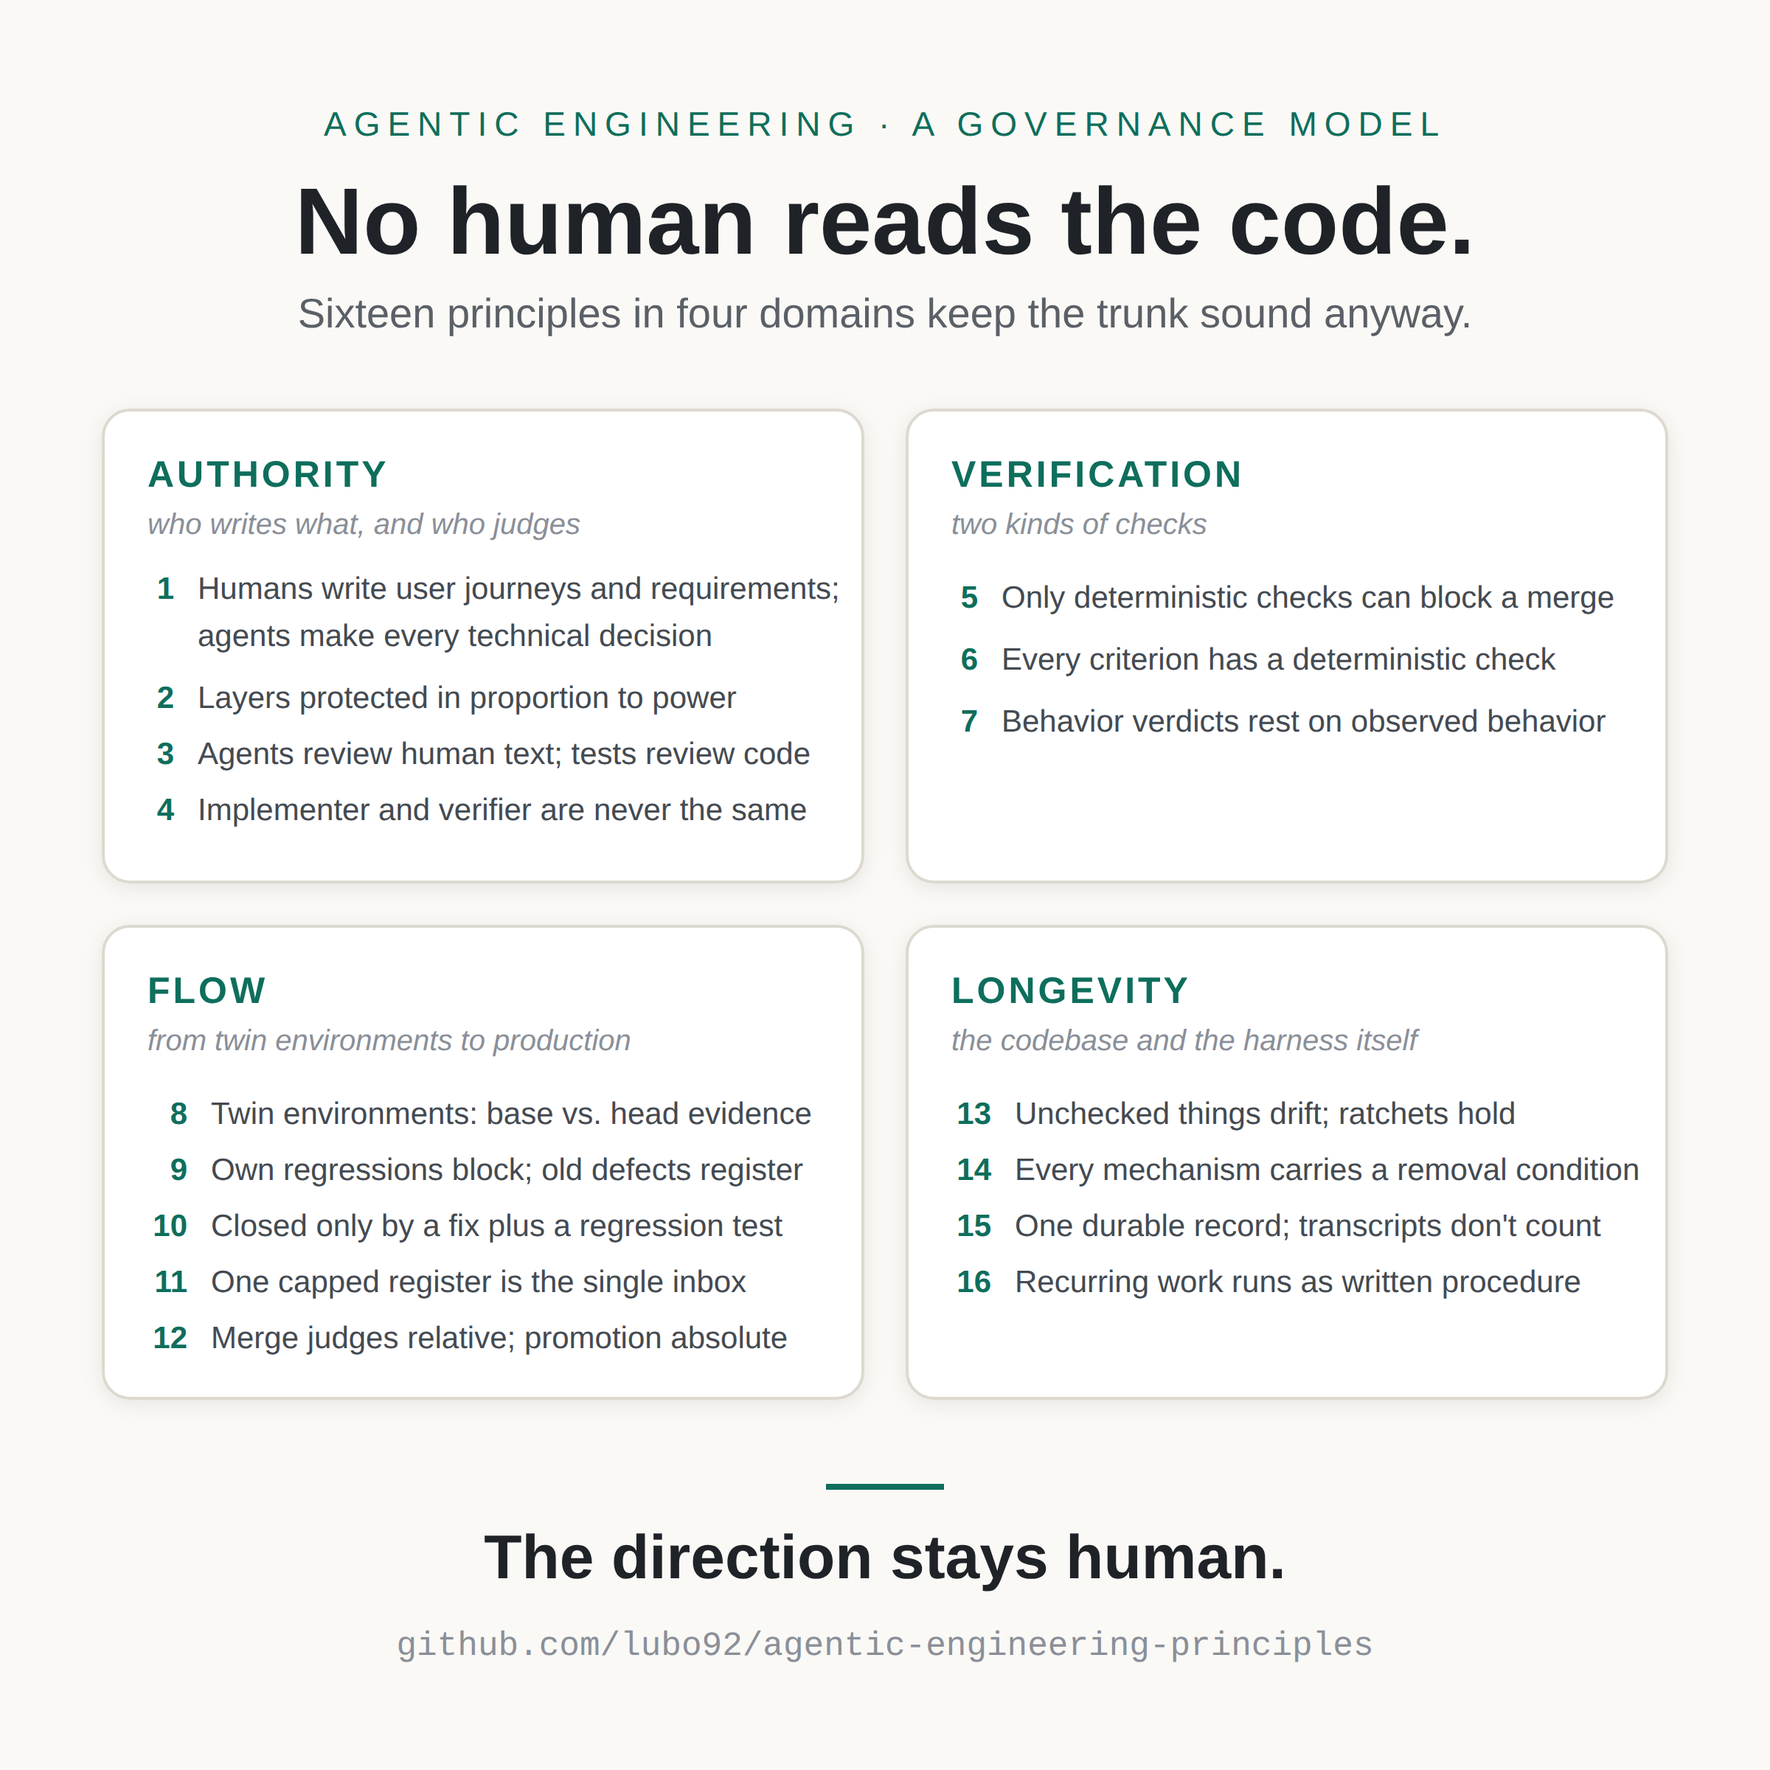
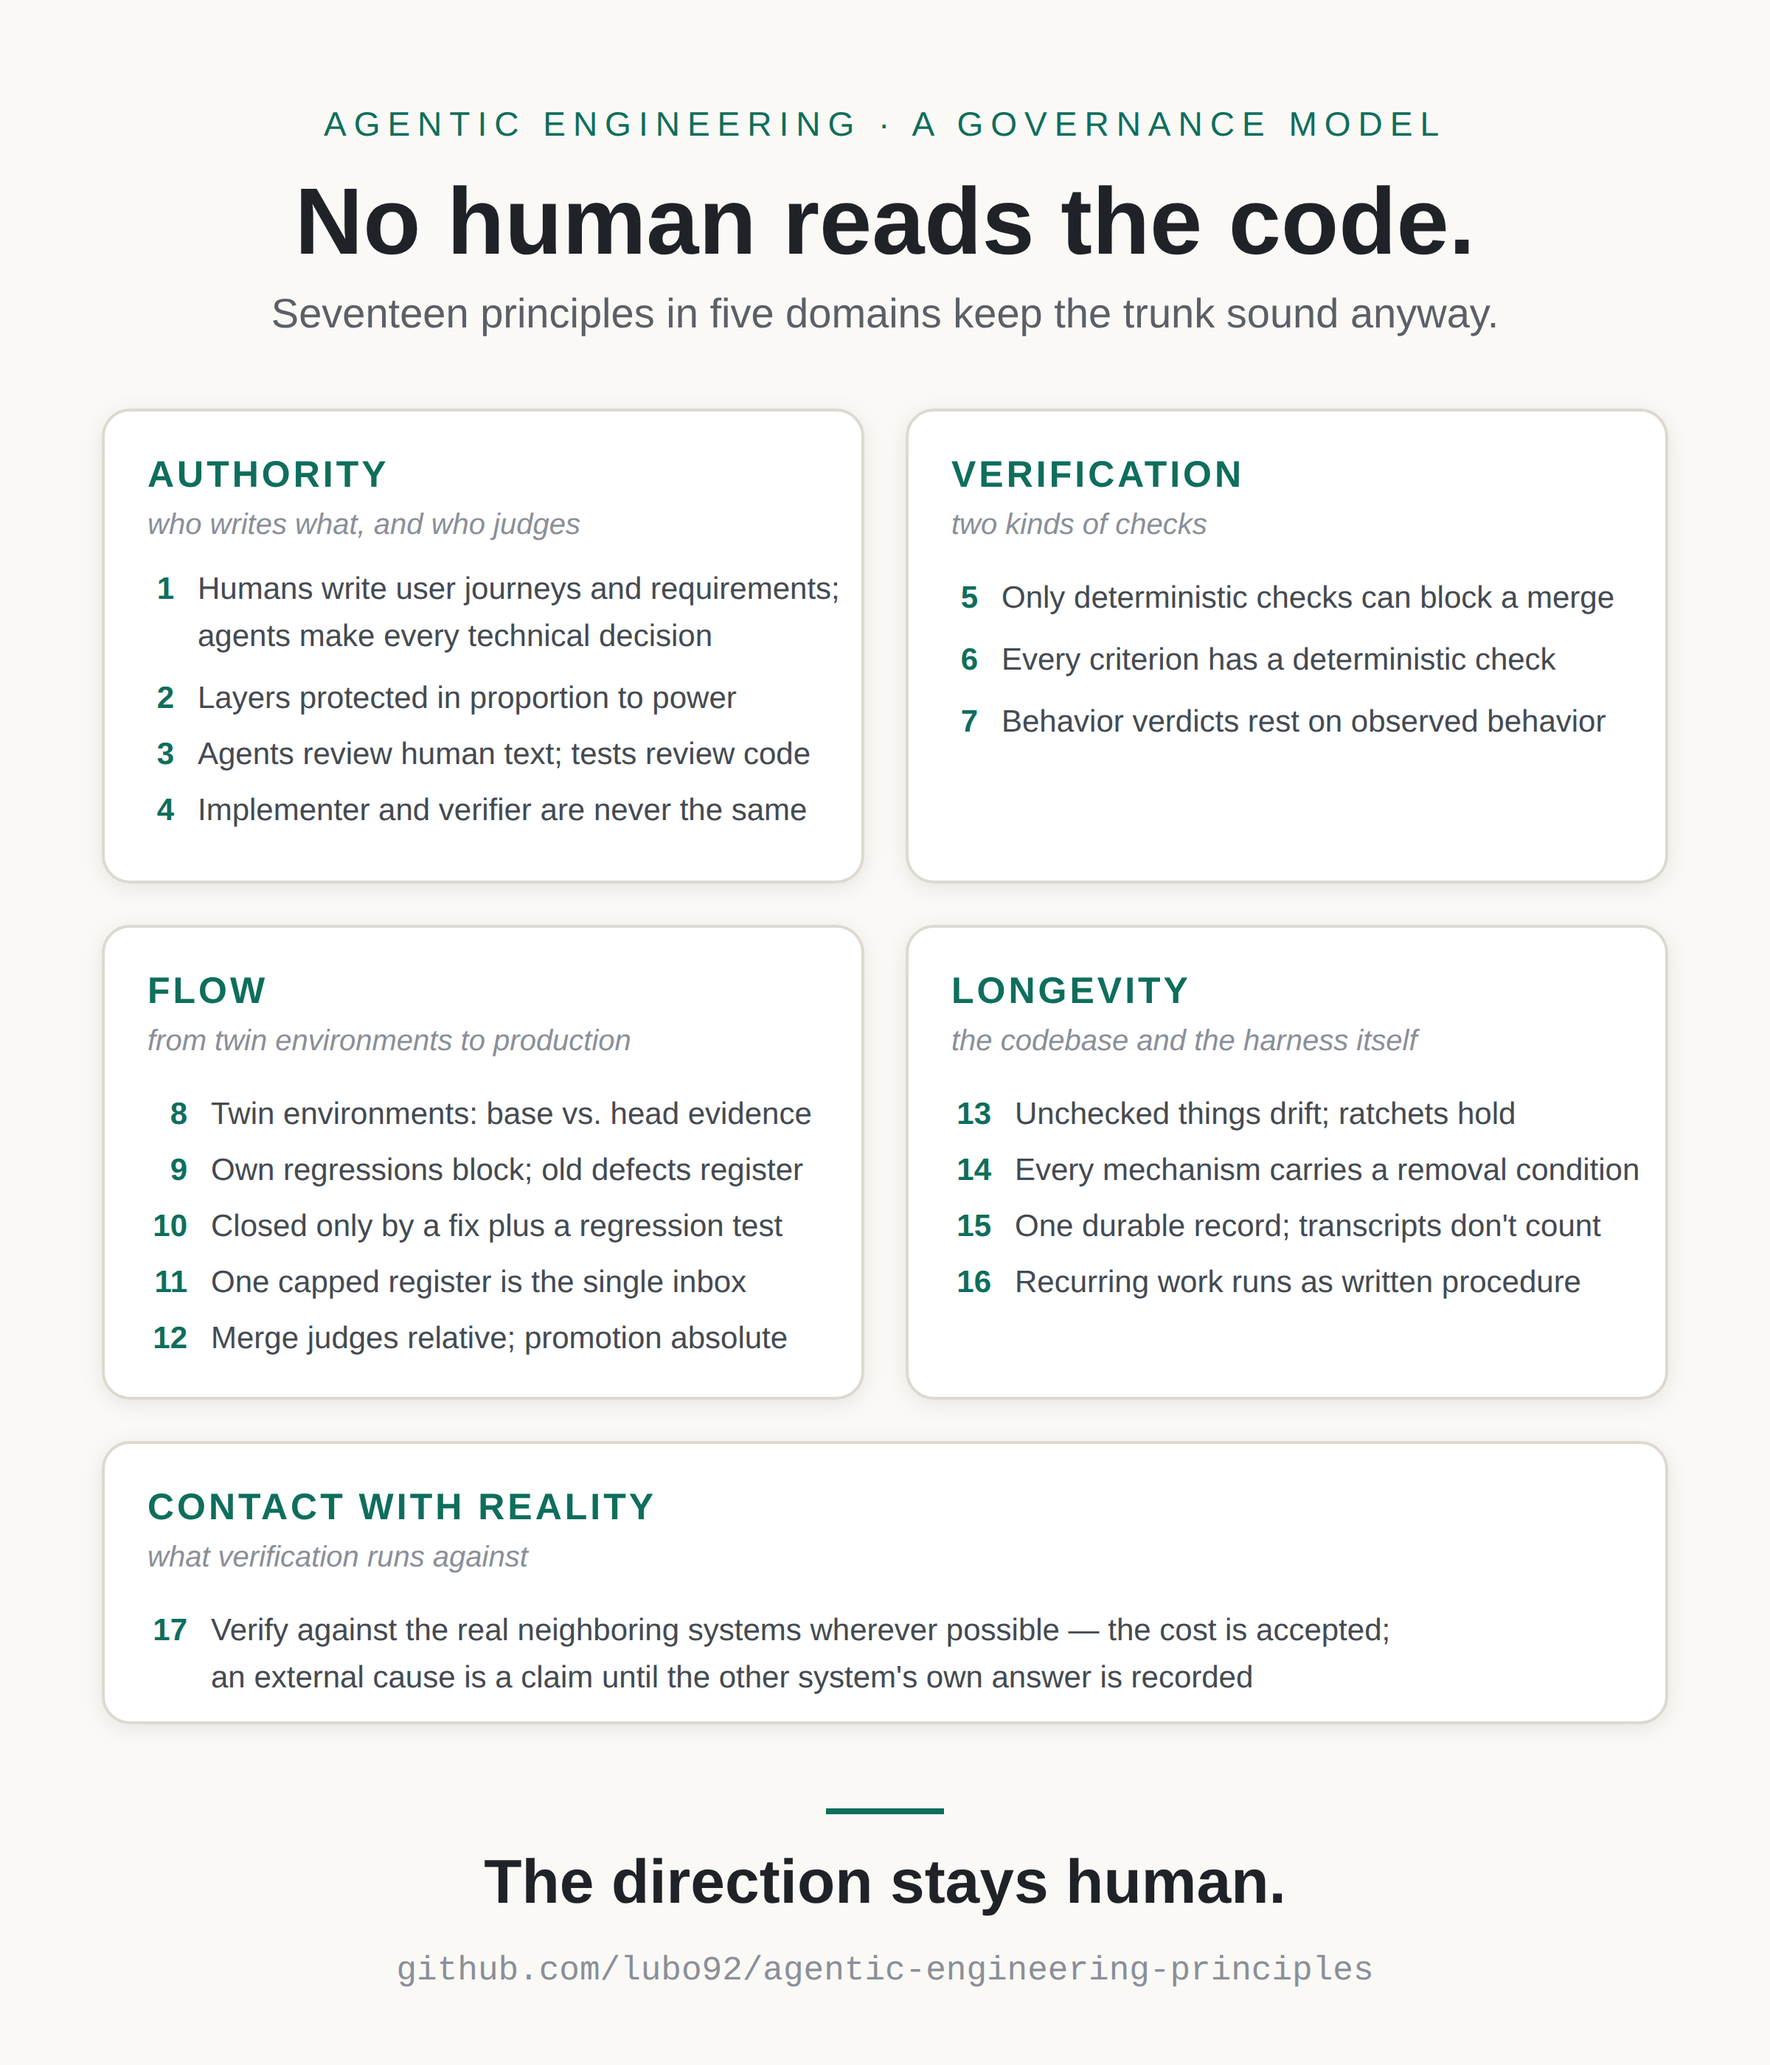
Add principle 17 (Contact with reality); release 1.1.0
Verification runs against the real neighboring systems wherever that is
possible at all, and its cost is accepted: test doubles can only confirm
their author's beliefs, and in an agentic organization an environment
that cannot reach the real system manufactures excuses no one can
refute. An external cause is a claim until the other system's own answer
is recorded verbatim; moving a check from a real dependency to a
substitute weakens the oracle and takes the same guarded act as removing
a test.

Placed as its own group at the end of Part I so principles 1-16 keep
their numbers. Title, abstract, citation, changelog and the overview
graphic follow the new count.

Claude-Session: https://claude.ai/code/session_01Akwo4bpbpBTaTuw3WfUkqX

diff --git a/sixteen-principles.md b/sixteen-principles.md
@@ -1,14 +1,14 @@
-# Sixteen principles for software organizations where no human reads the code
+# Seventeen principles for software organizations where no human reads the code
 
 ## A governance model for agentic engineering
 
-*Wolfgang Lubowski · TechVera ([techvera.ai](https://techvera.ai)) · Version 1.0, August 2026*
+*Wolfgang Lubowski · TechVera ([techvera.ai](https://techvera.ai)) · Version 1.1, August 2026*
 
 Software engineering is entering a new operating model: agents increasingly write the implementation, while humans define goals and constraints. Most discussions focus on better models, better prompts, better tools, or better harnesses. Much less attention has been paid to a more fundamental question:
 
 **What are the operating principles of a software organization in which humans no longer review code?**
 
-This document answers that question with **sixteen concrete principles**. They define who owns decisions, which artifacts are normative, how authority is distributed, what constitutes evidence, how changes are verified, and how an agentic software organization remains governable as it scales.
+This document answers that question with **seventeen concrete principles**. They define who owns decisions, which artifacts are normative, how authority is distributed, what constitutes evidence, how changes are verified, and how an agentic software organization remains governable as it scales.
 
 The principles are not design aspirations or best practices. Together they form a coherent operating model that can be implemented directly: each principle introduces a concrete rule, and Part II translates the principles into repositories, permissions, processes, gates, and workflows.
 
@@ -32,7 +32,7 @@ from the start.
 
 ---
 
-## Part I — The sixteen principles
+## Part I — The seventeen principles
 
 ### Authority — who writes what, and who judges
 
@@ -431,6 +431,44 @@ governs, covered by tests, and changed by a recorded change — never edited
 from memory. None of this is peculiar to agents. A human team that decides
 every step on the fly is unreliable for the same reason, and answers with
 processes that are written down and known to everyone.
+
+### Contact with reality — what verification runs against
+
+One principle stands apart: not what is checked or who judges, but what
+the checks are pointed at.
+
+#### 17. Maximize the checks that touch reality: end-to-end and integration verification runs against the real neighboring systems wherever that is possible at all, and its cost is accepted.
+
+A test double encodes what its author believed the other system does, and
+can only ever confirm that belief — including where the real system
+changed last month. The defects that reach customers live in that gap: a
+request field the provider began refusing, a mail path that silently
+stopped delivering, a response shape that moved. Against a stub, all three
+pass forever.
+
+In an agentic organization a second reason weighs heavier. An environment
+that cannot reach the real system manufactures excuses: where a red is
+explained by an unreachable dependency the environment could never have
+reached anyway, the explanation cannot be checked — and an agent under
+pressure to finish prefers the explanation that ends the work. Faked
+surroundings do not merely miss defects; they generate false attributions
+the harness cannot refute. Hence a narrow rule: an external cause is a
+claim until the other system's own answer is recorded verbatim; until then
+the finding stays open and belongs to the system that raised it.
+
+The cost — credentials in every environment, per-call charges, longer
+runs, the intermittent failure of systems nobody controls — is not argued
+away; it buys the only evidence that generalizes to production. Access to
+non-production dependencies is a low-sensitivity, high-frequency good,
+seeded frictionlessly; an environment missing it is a delivery defect, not
+a circumstance. Intermittent failure is triaged like any other finding,
+never grounds to retreat to a double. Where reality genuinely cannot be
+touched — destructive operations, charges beyond a budget, credentials
+that exist only in production — the substitute is a named exception with
+its reason recorded, watched like any other gap; forbidden is the silent
+double. And the direction runs one way: moving a check from a real
+dependency to a substitute weakens the oracle and takes the same guarded
+act as removing a test; moving it toward reality is free.
 
 ---
 
@@ -915,7 +953,7 @@ yet. Teams are adopting agents far faster than they are adopting a way to
 govern them, and the gap shows up as the same recurring doubt: nobody can
 say what a system is worth when no human has read what it does.
 
-The sixteen principles are one concrete answer, running in production
+The seventeen principles are one concrete answer, running in production
 rather than sketched. A snapshot from that operation's own records: fifty
 changes merged in one 96-hour stretch, none reviewed by a human and none
 reverted; roughly nine of ten reviewer findings dispositioned mechanically

diff --git a/README.md b/README.md
@@ -1,10 +1,10 @@
-# Sixteen principles for software organizations where no human reads the code
+# Seventeen principles for software organizations where no human reads the code
 
 **A governance model for agentic engineering.**
 
 Coding agents are good enough that the bottleneck has moved: no longer how
 much code an organization can produce, but how much it can be accountable
-for. This document proposes sixteen concrete operating principles for a
+for. This document proposes seventeen concrete operating principles for a
 software organization in which humans no longer review code — who owns
 which decisions, what counts as evidence, how changes are verified, and
 how such an organization stays governable. Part II translates the

diff --git a/CHANGELOG.md b/CHANGELOG.md
@@ -1,5 +1,13 @@
 # Changelog
 
+## 1.1.0 — 2026-08-13
+
+Adds principle 17 (*Contact with reality*): end-to-end and integration
+verification runs against the real neighboring systems wherever possible,
+its cost accepted; an external cause is a claim until the other system's
+own answer is recorded verbatim; moving a check from a real dependency to
+a substitute is a weakening act.
+
 ## 1.0.0 — 2026-08-10
 
 First public release. Sixteen principles (Part I), implementation notes
